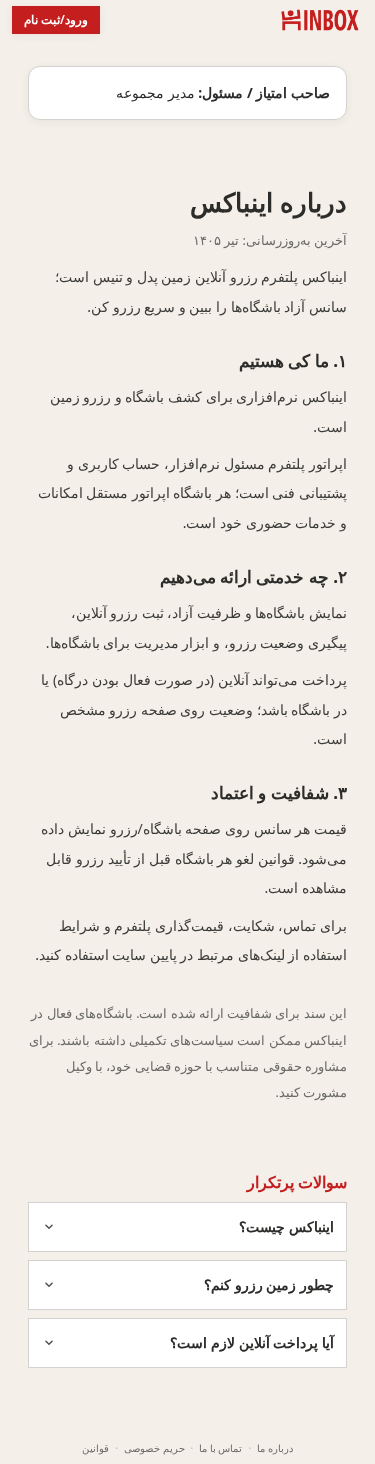
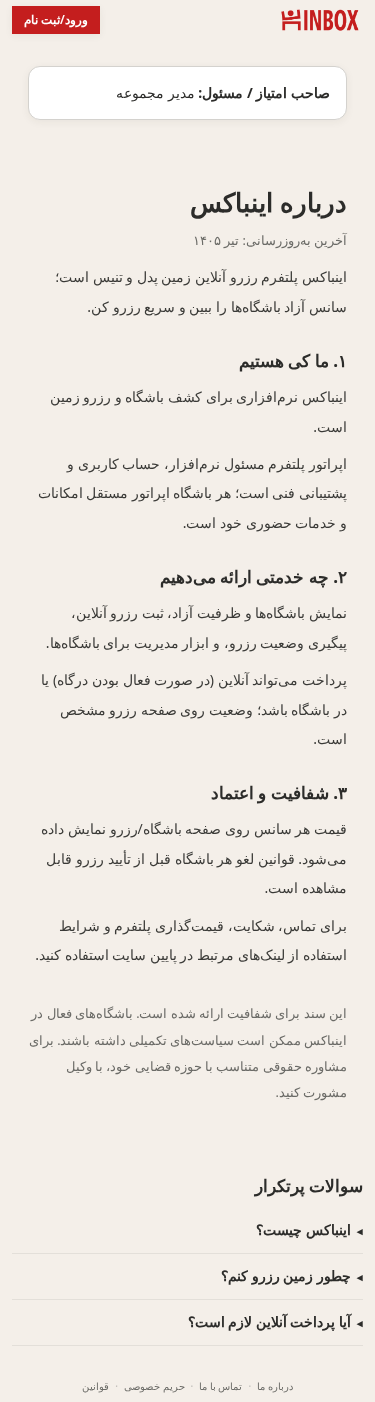
About (/about): SoT .rfaq plain FAQ rows + 17px dark heading — visual only

diff --git a/app/pages/about.vue b/app/pages/about.vue
@@ -48,6 +48,21 @@ useHead(() => ({
       :manage-title="false"
       :show-chrome="false"
     />
-    <LegalFaq faq-key="legal.aboutFaq" page-url-path="/about" />
+    <div class="legal-sot-faq">
+      <LegalFaq faq-key="legal.aboutFaq" page-url-path="/about" />
+    </div>
   </div>
 </template>
+
+<style scoped>
+/* SoT legalPage(): plain .rfaq rows (summary marker, hairline bottom), h2 17px dark */
+.legal-sot-faq { max-width: 640px; margin: -24px auto 0; padding: 0; width: 100%; }
+.legal-sot-faq :deep(.canva-help) { padding: 0; margin: 0; max-width: none; }
+.legal-sot-faq :deep(.canva-faq-title) { font-size: 17px; color: #2c2c2a; margin: 0 0 6px; }
+.legal-sot-faq :deep(.canva-faq-list) { gap: 0; display: block; }
+.legal-sot-faq :deep(.canva-faq-item) { background: transparent; border: 0; border-bottom: 1px solid rgba(44,44,42,.08); border-radius: 0; box-shadow: none; margin: 0; }
+.legal-sot-faq :deep(.canva-faq-trigger) { padding: 12px 0; justify-content: flex-start; gap: 6px; font-weight: 600; font-size: 14px; }
+.legal-sot-faq :deep(.canva-faq-trigger)::before { content: '\25C2'; font-size: 11px; order: -1; }
+.legal-sot-faq :deep(.canva-faq-chevron) { display: none; }
+.legal-sot-faq :deep(.canva-faq-panel) { padding: 0 0 12px; }
+</style>
